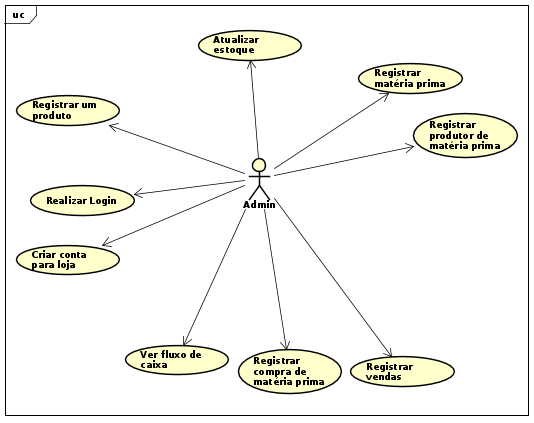
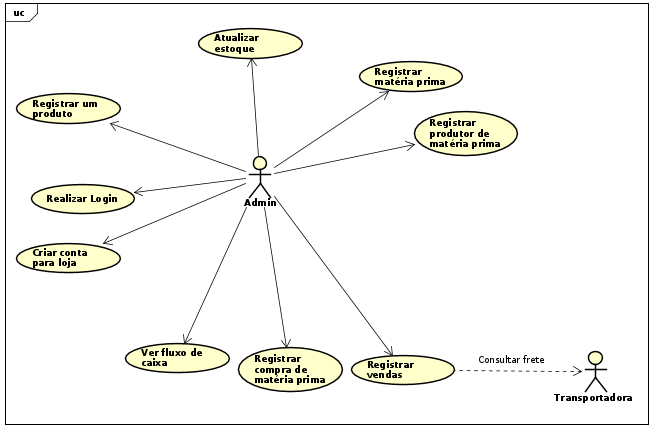
add external actors to use cases diagram

diff --git a/sms/README.md b/sms/README.md
@@ -4,7 +4,7 @@ No contexto de uma loja genérica, queremos criar uma aplicação que permita.
 - Gerenciar matéria prima que é comprada
 - Visualizar o fluxo de caixa do negócio
 
-![Use Cases](./use-cases.png)
+![Use Cases](./docs/use-cases.png)
 
 A implementação pode ser encontrada em [SMS-web](./SMS-web/)
 
